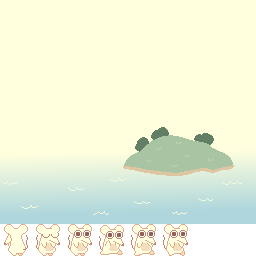
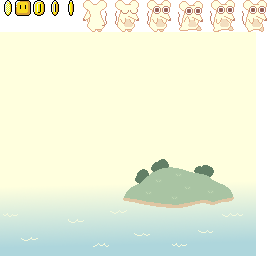
WIP

diff --git a/src/app.js b/src/app.js
@@ -1,30 +1,72 @@
-import * as PIXI from "pixi.js";
+import {
+  AnimatedSprite,
+  Application,
+  Loader,
+  ObservablePoint,
+  Point,
+  Sprite,
+  Spritesheet,
+  Ticker,
+  settings,
+  SCALE_MODES,
+} from "pixi.js";
+import { CompositeTilemap } from "@pixi/tilemap";
 
 // Import ressources
 import ratAtlas from "./images/atlas/rat.json";
-import ratAtlasImage from "./images/atlas/rat.png";
-
-// Define aliases
-const loader = PIXI.Loader.shared;
+import ratSprites from "./images/atlas/rat.png";
 
 // Settings
-PIXI.settings.SCALE_MODE = PIXI.SCALE_MODES.NEAREST;
+settings.SCALE_MODE = SCALE_MODES.NEAREST;
+
+const resolutionX = 256;
+const resolutionY = 224;
+const tileSizeX = 16;
+const tileSizeY = 16;
+const numberOfTiles = parseInt(resolutionX / tileSizeX) * 2;
+
+// Variables
+const world = {
+  elapsed: 0.0,
+  gravity: 1,
+  startFloorY: 12,
+};
+
+const player = {
+  power: 1.0,
+  mass: 1.0,
+  force: new Point(2, 0),
+  velocity: new Point(0, 0),
+  position: new Point(2 * tileSizeX, world.startFloorY * tileSizeY - 32),
+};
+
+// Sprites
+let backgroundSprite;
+let coinSprite;
+let ratWalkSprite;
+let ratRunSprite;
+let ratJumpSprite;
+let groundTiles;
 
 // Create a Pixi application
-const app = new PIXI.Application({
-  width: 256,
-  height: 224,
+const app = new Application({
+  width: resolutionX,
+  height: resolutionY,
   antialias: false,
-  resolution: 2,
+  resolution: 3,
+  backgroundColor: 0xffffde,
 });
-app.renderer.backgroundColor = 0x061639;
 
 // Mount application
 document.getElementById("app").appendChild(app.view);
 
+// Register event listeners
+app.view.addEventListener("click", jump);
+app.view.addEventListener("touchend", jump);
+
 // Load ressources
-loader.onProgress.add(loadProgressHandler);
-loader.add("ratAtlasImage", ratAtlasImage).load(setup);
+Loader.shared.onProgress.add(loadProgressHandler);
+Loader.shared.add(ratSprites).load(setup);
 
 function loadProgressHandler(loader, resource) {
   console.log("Loading: " + resource.url);
@@ -35,38 +77,86 @@ function setup() {
   console.log("All files loaded");
 
   // Load spritesheet
-  const texture = loader.resources["ratAtlasImage"].texture.baseTexture;
-  const sheet = new PIXI.Spritesheet(texture, ratAtlas);
+  const sheet = new Spritesheet(
+    Loader.shared.resources[ratSprites].texture.baseTexture,
+    ratAtlas
+  );
   sheet.parse(() => {
-    const backgroundSprite = PIXI.Sprite.from("bg_wakaland.png"); 
-      
-    const ratWalkSprite = PIXI.AnimatedSprite.fromFrames([
-      "rat_idle.png",
-      "rat_walk.png",
+    console.log("Spritesheet loaded");
+
+    // Create sprites
+    backgroundSprite = Sprite.from("bg_wakaland.png");
+
+    coinSprite = AnimatedSprite.fromFrames([
+      "coin1.png",
+      "coin2.png",
+      "coin3.png",
+      "coin4.png",
     ]);
+    coinSprite.animationSpeed = 0.15;
+    coinSprite.x = 190;
+    coinSprite.y = 127;
+    coinSprite.play();
+
+    ratWalkSprite = AnimatedSprite.fromFrames(["rat_idle.png", "rat_walk.png"]);
     ratWalkSprite.animationSpeed = 0.1;
-    ratWalkSprite.x = 142;
-    ratWalkSprite.y = 133;
+    ratWalkSprite.x = player.position.x;
+    ratWalkSprite.y = player.position.y;
     ratWalkSprite.play();
 
-    const ratRunSprite = PIXI.AnimatedSprite.fromFrames([
-      "rat_idle.png",
-      "rat_run.png",
-    ]);
+    ratRunSprite = AnimatedSprite.fromFrames(["rat_idle.png", "rat_run.png"]);
     ratRunSprite.animationSpeed = 0.15;
-    ratRunSprite.x = 190;
-    ratRunSprite.y = 127;
+    ratRunSprite.x = player.position.x;
+    ratRunSprite.y = player.position.y;
     ratRunSprite.play();
 
-    const ratJumpSprite = PIXI.Sprite.from("rat_jump.png");
+    ratJumpSprite = Sprite.from("rat_jump.png");
+    ratJumpSprite.x = player.position.x;
+    ratJumpSprite.y = player.position.y;
 
-    // Add the rocket to the stage
+    // Create tilemap
+    groundTiles = new CompositeTilemap(0, "block.png");
+    drawTiles();
+
+    // Compose stage
     app.stage.addChild(backgroundSprite);
-    app.stage.addChild(ratWalkSprite);
+    app.stage.addChild(groundTiles);
     app.stage.addChild(ratRunSprite);
-    //app.stage.addChild(ratJumpSprite);
 
     // Render the stage
     app.renderer.render(app.stage);
+
+    // Start game loop
+    console.log("Starting game loop");
+    app.ticker.add(gameLoop);
   });
+}
+
+function drawTiles() {
+  console.log("drawTiles");
+  for (var x = 0; x <= numberOfTiles; x++) {
+    groundTiles.addFrame(
+      "block.png",
+      x * tileSizeX,
+      world.startFloorY * tileSizeY
+    );
+  }
+  groundTiles.position.set(player.position.x, groundTiles.position.y);
+}
+
+function gameLoop(delta) {
+  if (Math.floor(player.position.x % resolutionX) === 0) {
+    drawTiles();
+  }
+  player.velocity.x += (player.force.x / player.mass) * delta;
+  player.velocity.y += (player.force.y / player.mass) * delta;
+  player.position.x += player.velocity.x * delta;
+  player.position.y += player.velocity.y * delta;
+  world.elapsed += delta;
+  ratRunSprite.position.set(ratRunSprite.x, player.position.y);
+  groundTiles.pivot.set(player.position.x, groundTiles.position.y);
+}
+
+function jump() {
+  player.velocity.y = -player.power;
 }

diff --git a/src/styles.css b/src/styles.css
@@ -2,7 +2,7 @@
 
 :root {
   --border-radius: 0.1rem;
-  --font-size: 10px;
+  --font-size: 16px;
 }
 
 main {
@@ -15,7 +15,7 @@ canvas {
 
 footer {
   color: var(--muted-color);
-  font-size: xx-small;
+  font-size: small;
   text-align: center;
 }
 
